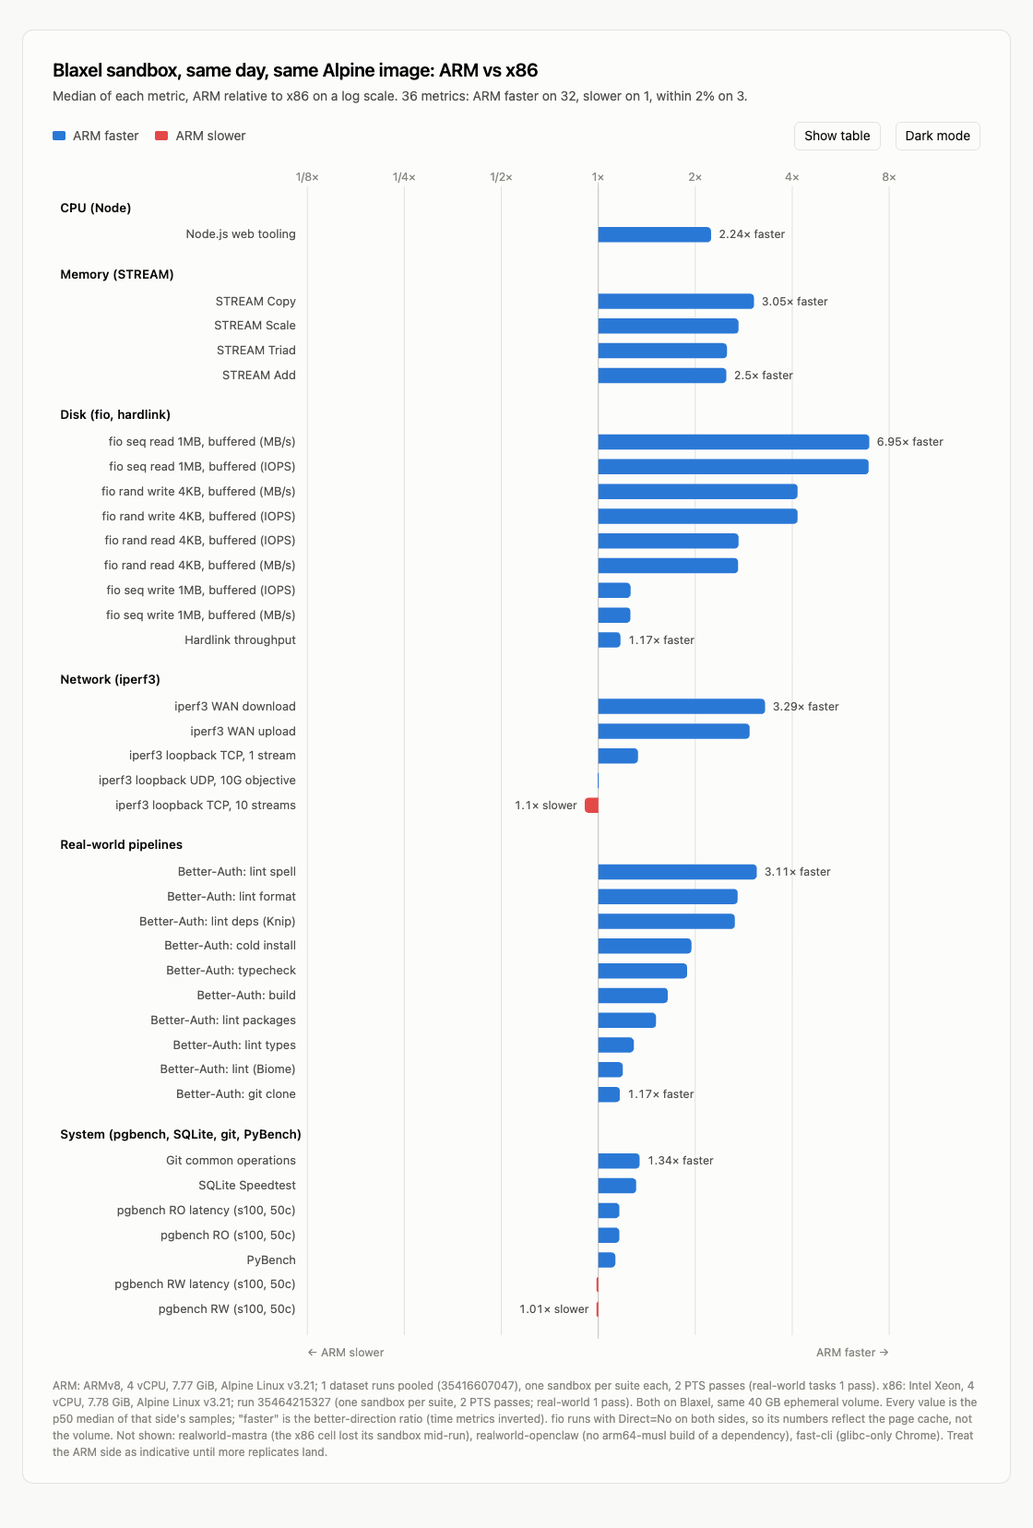
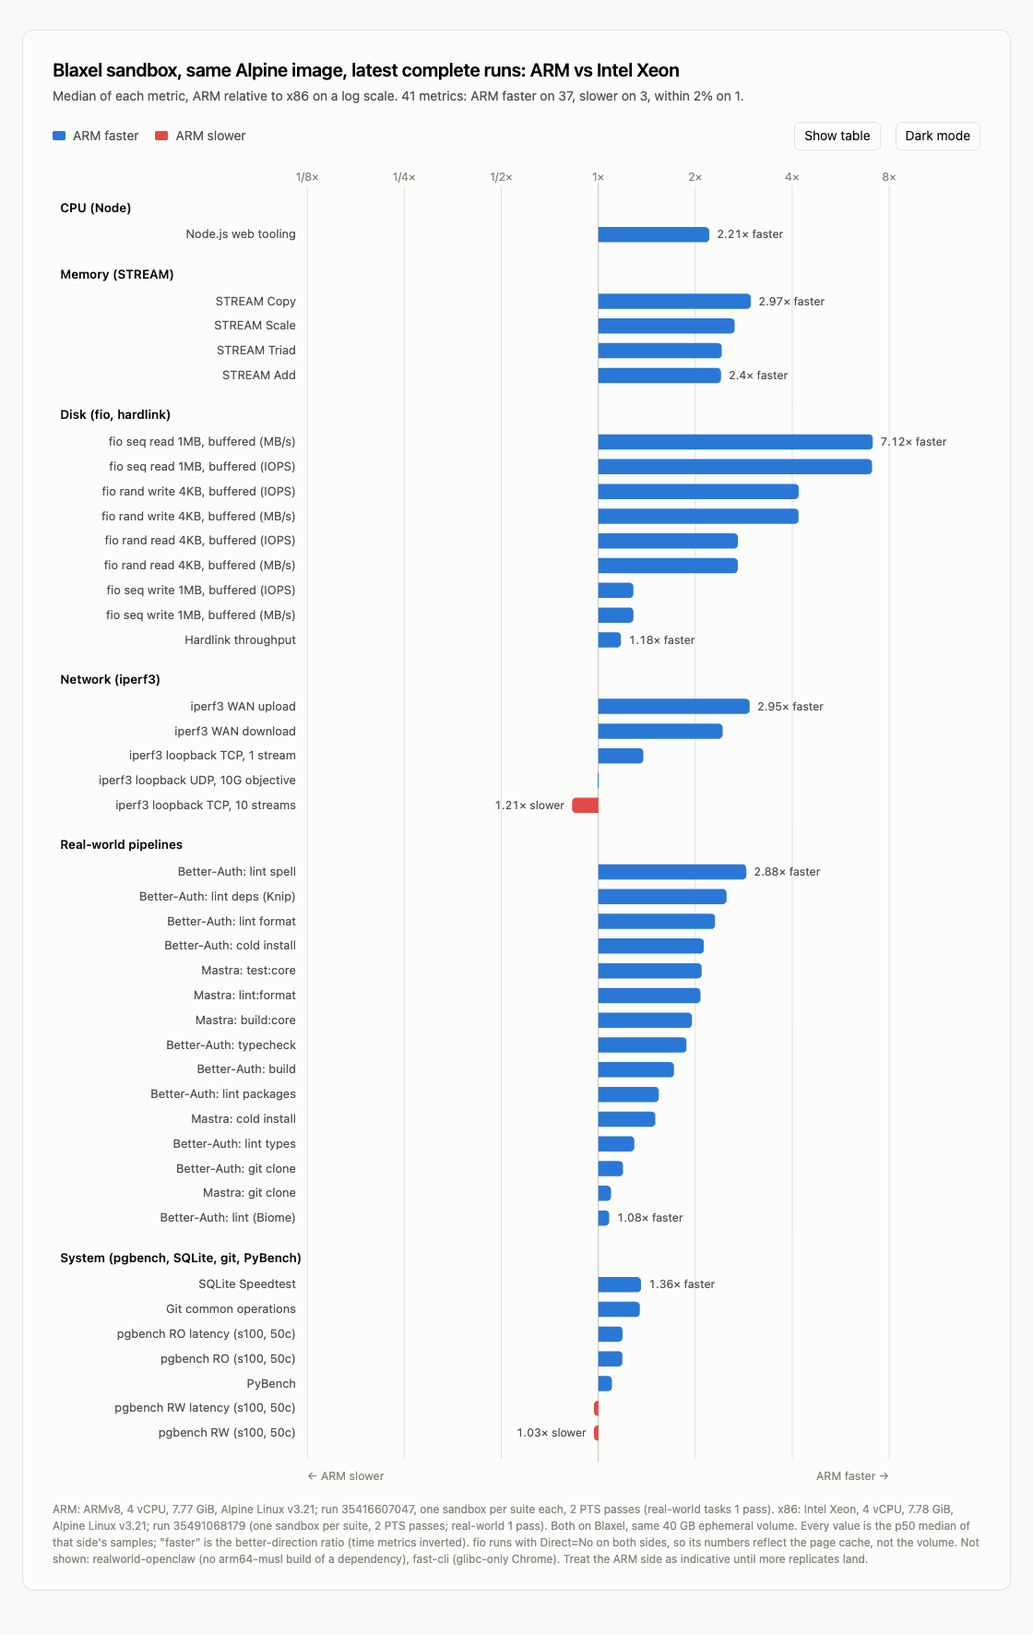
docs(chart,report): Alpine pair now compares the two latest complete runs (35416607047 ARM, 35491068179 Xeon)

diff --git a/docs/arm-vs-x86-alpine.html b/docs/arm-vs-x86-alpine.html
@@ -3,7 +3,7 @@
 <head>
 <meta charset="utf-8">
 <meta name="viewport" content="width=device-width, initial-scale=1">
-<title>Blaxel sandbox, same day, same Alpine image: ARM vs x86</title>
+<title>Blaxel sandbox, same Alpine image, latest complete runs: ARM vs Intel Xeon</title>
 <style>
   .viz-root {
     color-scheme: light;
@@ -69,7 +69,7 @@
 <body>
 <div class="viz-root" data-palette="#2a78d6,#e34948" data-mode="light">
   <div class="card">
-    <h1>Blaxel sandbox, same day, same Alpine image: ARM vs x86</h1>
+    <h1>Blaxel sandbox, same Alpine image, latest complete runs: ARM vs Intel Xeon</h1>
     <p class="sub" id="subtitle"></p>
     <div class="toolbar">
       <div class="legend" aria-label="Legend">
@@ -87,7 +87,7 @@
   </div>
 </div>
 
-<script id="data" type="application/json">{"rows":[{"id":"node_web_tooling_runs_per_s","dimension":"cpu","label":"Node.js web tooling","unit":"runs/s","direction":"HIB","arm":24.25,"x86":10.825,"nArm":2,"nX86":2,"ratio":2.240184757505774,"pct":124.01847575057738},{"id":"fio_type_sequential_read_engine_linux_aio_direct_no_block_size_1mb_job_count_1_disk_target_default_test_directory_mb_per_s","dimension":"disk","label":"fio seq read 1MB, buffered (MB/s)","unit":"MB/s","direction":"HIB","arm":12079.595519999999,"x86":1739.063296,"nArm":2,"nX86":2,"ratio":6.946035574314139,"pct":594.6035574314138},{"id":"fio_type_sequential_read_engine_linux_aio_direct_no_block_size_1mb_job_count_1_disk_target_default_test_directory_iops","dimension":"disk","label":"fio seq read 1MB, buffered (IOPS)","unit":"IOPS","direction":"HIB","arm":11450,"x86":1657,"nArm":2,"nX86":2,"ratio":6.910078455039227,"pct":591.0078455039227},{"id":"fio_type_random_write_engine_linux_aio_direct_no_block_size_4kb_job_count_1_disk_target_default_test_directory_mb_per_s","dimension":"disk","label":"fio rand write 4KB, buffered (MB/s)","unit":"MB/s","direction":"HIB","arm":1242.5625599999998,"x86":298.84416,"nArm":2,"nX86":2,"ratio":4.157894736842105,"pct":315.7894736842105},{"id":"fio_type_random_write_engine_linux_aio_direct_no_block_size_4kb_job_count_1_disk_target_default_test_directory_iops","dimension":"disk","label":"fio rand write 4KB, buffered (IOPS)","unit":"IOPS","direction":"HIB","arm":303500,"x86":73000,"nArm":2,"nX86":2,"ratio":4.157534246575342,"pct":315.75342465753425},{"id":"fio_type_random_read_engine_linux_aio_direct_no_block_size_4kb_job_count_1_disk_target_default_test_directory_iops","dimension":"disk","label":"fio rand read 4KB, buffered (IOPS)","unit":"IOPS","direction":"HIB","arm":57250,"x86":21000,"nArm":2,"nX86":2,"ratio":2.7261904761904763,"pct":172.61904761904762},{"id":"fio_type_random_read_engine_linux_aio_direct_no_block_size_4kb_job_count_1_disk_target_default_test_directory_mb_per_s","dimension":"disk","label":"fio rand read 4KB, buffered (MB/s)","unit":"MB/s","direction":"HIB","arm":234.356736,"x86":86.19294719999999,"nArm":2,"nX86":2,"ratio":2.7189781021897814,"pct":171.89781021897815},{"id":"fio_type_sequential_write_engine_linux_aio_direct_no_block_size_1mb_job_count_1_disk_target_default_test_directory_iops","dimension":"disk","label":"fio seq write 1MB, buffered (IOPS)","unit":"IOPS","direction":"HIB","arm":2065.5,"x86":1639.5,"nArm":2,"nX86":2,"ratio":1.2598353156450137,"pct":25.983531564501373},{"id":"fio_type_sequential_write_engine_linux_aio_direct_no_block_size_1mb_job_count_1_disk_target_default_test_directory_mb_per_s","dimension":"disk","label":"fio seq write 1MB, buffered (MB/s)","unit":"MB/s","direction":"HIB","arm":2167.4065920000003,"x86":1721.237504,"nArm":2,"nX86":2,"ratio":1.2592141334145601,"pct":25.921413341456013},{"id":"hardlink_bogo_ops_per_s","dimension":"disk","label":"Hardlink throughput","unit":"bogo ops/s","direction":"HIB","arm":13.02,"x86":11.11,"nArm":2,"nX86":2,"ratio":1.171917191719172,"pct":17.191719171917196},{"id":"stream_type_copy","dimension":"memory","label":"STREAM Copy","unit":"MB/s","direction":"HIB","arm":167833,"x86":55104.65,"nArm":2,"nX86":2,"ratio":3.0457139279534484,"pct":204.57139279534485},{"id":"stream_type_scale","dimension":"memory","label":"STREAM Scale","unit":"MB/s","direction":"HIB","arm":167797.05,"x86":61540.100000000006,"nArm":2,"nX86":2,"ratio":2.7266294659904675,"pct":172.66294659904676},{"id":"stream_type_triad","dimension":"memory","label":"STREAM Triad","unit":"MB/s","direction":"HIB","arm":159585.7,"x86":63612.6,"nArm":2,"nX86":2,"ratio":2.5087121104938332,"pct":150.87121104938333},{"id":"stream_type_add","dimension":"memory","label":"STREAM Add","unit":"MB/s","direction":"HIB","arm":159481.05,"x86":63825.65,"nArm":2,"nX86":2,"ratio":2.498698407301766,"pct":149.8698407301766},{"id":"iperf_wan_direction_download","dimension":"network","label":"iperf3 WAN download","unit":"Mbits/sec","direction":"HIB","arm":3680.75,"x86":1117.15,"nArm":2,"nX86":2,"ratio":3.2947679362663918,"pct":229.47679362663916},{"id":"iperf_wan_direction_upload","dimension":"network","label":"iperf3 WAN upload","unit":"Mbits/sec","direction":"HIB","arm":6906.6,"x86":2340.525,"nArm":2,"nX86":2,"ratio":2.950876405934566,"pct":195.0876405934566},{"id":"iperf_server_address_localhost_server_port_5201_duration_10_seconds_test_tcp_parallel_1","dimension":"network","label":"iperf3 loopback TCP, 1 stream","unit":"Mbits/sec","direction":"HIB","arm":93537.5,"x86":70432,"nArm":2,"nX86":2,"ratio":1.3280540095411177,"pct":32.805400954111775},{"id":"iperf_server_address_localhost_server_port_5201_duration_10_seconds_test_udp_10000mbit_objective_parallel_1","dimension":"network","label":"iperf3 loopback UDP, 10G objective","unit":"Mbits/sec","direction":"HIB","arm":9999,"x86":9999,"nArm":2,"nX86":2,"ratio":1,"pct":0},{"id":"iperf_server_address_localhost_server_port_5201_duration_10_seconds_test_tcp_parallel_10","dimension":"network","label":"iperf3 loopback TCP, 10 streams","unit":"Mbits/sec","direction":"HIB","arm":66970,"x86":73760.5,"nArm":2,"nX86":2,"ratio":0.9079385307854475,"pct":-9.20614692145525},{"id":"realworld_better_auth_task_lint_spell","dimension":"realworld","label":"Better-Auth: lint spell","unit":"Seconds","direction":"LIB","arm":7.584,"x86":23.556,"nArm":1,"nX86":1,"ratio":3.1060126582278484,"pct":210.60126582278485},{"id":"realworld_better_auth_task_lint_format","dimension":"realworld","label":"Better-Auth: lint format","unit":"Seconds","direction":"LIB","arm":3.298,"x86":8.935,"nArm":1,"nX86":1,"ratio":2.7092177077016375,"pct":170.92177077016376},{"id":"realworld_better_auth_task_lint_deps_knip","dimension":"realworld","label":"Better-Auth: lint deps (Knip)","unit":"Seconds","direction":"LIB","arm":9.879,"x86":26.224,"nArm":1,"nX86":1,"ratio":2.6545196882275537,"pct":165.45196882275536},{"id":"realworld_better_auth_task_cold_install","dimension":"realworld","label":"Better-Auth: cold install","unit":"Seconds","direction":"LIB","arm":14.16,"x86":27.567,"nArm":1,"nX86":1,"ratio":1.946822033898305,"pct":94.6822033898305},{"id":"realworld_better_auth_task_typecheck","dimension":"realworld","label":"Better-Auth: typecheck","unit":"Seconds","direction":"LIB","arm":41.415,"x86":78.159,"nArm":1,"nX86":1,"ratio":1.8872147772546182,"pct":88.72147772546182},{"id":"realworld_better_auth_task_build","dimension":"realworld","label":"Better-Auth: build","unit":"Seconds","direction":"LIB","arm":56.664,"x86":93.136,"nArm":1,"nX86":1,"ratio":1.643653819003247,"pct":64.3653819003247},{"id":"realworld_better_auth_task_lint_packages","dimension":"realworld","label":"Better-Auth: lint packages","unit":"Seconds","direction":"LIB","arm":3.125,"x86":4.722,"nArm":1,"nX86":1,"ratio":1.5110400000000002,"pct":51.10400000000001},{"id":"realworld_better_auth_task_lint_types","dimension":"realworld","label":"Better-Auth: lint types","unit":"Seconds","direction":"LIB","arm":28.628,"x86":36.903,"nArm":1,"nX86":1,"ratio":1.2890526757021097,"pct":28.905267570210967},{"id":"realworld_better_auth_task_lint_biome","dimension":"realworld","label":"Better-Auth: lint (Biome)","unit":"Seconds","direction":"LIB","arm":54.923,"x86":65.498,"nArm":1,"nX86":1,"ratio":1.1925422864737907,"pct":19.25422864737907},{"id":"realworld_better_auth_task_git_clone","dimension":"realworld","label":"Better-Auth: git clone","unit":"Seconds","direction":"LIB","arm":3.184,"x86":3.717,"nArm":1,"nX86":1,"ratio":1.167399497487437,"pct":16.73994974874371},{"id":"git_seconds","dimension":"system","label":"Git common operations","unit":"Seconds","direction":"LIB","arm":61.0005,"x86":81.9965,"nArm":2,"nX86":2,"ratio":1.3441939000499994,"pct":34.41939000499994},{"id":"sqlite_speedtest_seconds","dimension":"system","label":"SQLite Speedtest","unit":"Seconds","direction":"LIB","arm":51.42,"x86":67.4825,"nArm":2,"nX86":2,"ratio":1.3123784519642163,"pct":31.23784519642163},{"id":"pgbench_scaling_factor_100_clients_50_mode_read_only_average_latency","dimension":"system","label":"pgbench RO latency (s100, 50c)","unit":"ms","direction":"LIB","arm":0.3545,"x86":0.4125,"nArm":2,"nX86":2,"ratio":1.16361071932299,"pct":16.36107193229901},{"id":"pgbench_scaling_factor_100_clients_50_mode_read_only","dimension":"system","label":"pgbench RO (s100, 50c)","unit":"TPS","direction":"HIB","arm":141035.312585,"x86":121306.7625195,"nArm":2,"nX86":2,"ratio":1.1626335552589548,"pct":16.263355525895484},{"id":"pybench_milliseconds","dimension":"system","label":"PyBench","unit":"Milliseconds","direction":"LIB","arm":669,"x86":756,"nArm":2,"nX86":2,"ratio":1.1300448430493273,"pct":13.004484304932728},{"id":"pgbench_scaling_factor_100_clients_50_mode_read_write_average_latency","dimension":"system","label":"pgbench RW latency (s100, 50c)","unit":"ms","direction":"LIB","arm":3.384,"x86":3.341,"nArm":2,"nX86":2,"ratio":0.9872931442080379,"pct":-1.2706855791962068},{"id":"pgbench_scaling_factor_100_clients_50_mode_read_write","dimension":"system","label":"pgbench RW (s100, 50c)","unit":"TPS","direction":"HIB","arm":14778.4277575,"x86":14971.5285305,"nArm":2,"nX86":2,"ratio":0.9871021337195721,"pct":-1.2897866280427883}],"armSpec":{"cpuModel":"ARMv8","detectedIsolation":"unknown","diskGb":40.2,"hostMemoryGb":8,"hostVcpus":4,"kernel":"6.1.166","memoryGb":7.77,"os":"Alpine Linux v3.21","vcpus":4,"virtualization":"unknown","asnSource":"ipinfo","city":"Ashburn","country":"US","egressAsn":"AS14618","egressOrg":"AS14618 Amazon.com, Inc.","egressOrgName":"Amazon.com, Inc.","geoSource":"ipinfo","location":"39.0437,-77.4875","region":"Virginia","timezone":"America/New_York"},"x86Spec":{"cpuModel":"Intel Xeon","detectedIsolation":"unknown","diskGb":40.2,"hostMemoryGb":8,"hostVcpus":4,"kernel":"6.1.166","memoryGb":7.78,"os":"Alpine Linux v3.21","vcpus":4,"virtualization":"unknown","asnSource":"ipinfo","city":"Ashburn","country":"US","egressAsn":"AS14618","egressOrg":"AS14618 Amazon.com, Inc.","egressOrgName":"Amazon.com, Inc.","geoSource":"ipinfo","location":"39.0437,-77.4875","region":"Virginia","timezone":"America/New_York"},"armRuns":["35416607047"],"x86Runs":["35464215327"]}</script>
+<script id="data" type="application/json">{"rows":[{"id":"node_web_tooling_runs_per_s","dimension":"cpu","label":"Node.js web tooling","unit":"runs/s","direction":"HIB","arm":24.25,"x86":10.965,"nArm":2,"nX86":2,"ratio":2.2115823073415415,"pct":121.15823073415415},{"id":"fio_type_sequential_read_engine_linux_aio_direct_no_block_size_1mb_job_count_1_disk_target_default_test_directory_mb_per_s","dimension":"disk","label":"fio seq read 1MB, buffered (MB/s)","unit":"MB/s","direction":"HIB","arm":12079.595519999999,"x86":1697.644544,"nArm":2,"nX86":2,"ratio":7.115503397158739,"pct":611.5503397158739},{"id":"fio_type_sequential_read_engine_linux_aio_direct_no_block_size_1mb_job_count_1_disk_target_default_test_directory_iops","dimension":"disk","label":"fio seq read 1MB, buffered (IOPS)","unit":"IOPS","direction":"HIB","arm":11450,"x86":1618,"nArm":2,"nX86":2,"ratio":7.07663782447466,"pct":607.663782447466},{"id":"fio_type_random_write_engine_linux_aio_direct_no_block_size_4kb_job_count_1_disk_target_default_test_directory_iops","dimension":"disk","label":"fio rand write 4KB, buffered (IOPS)","unit":"IOPS","direction":"HIB","arm":303500,"x86":72450,"nArm":2,"nX86":2,"ratio":4.189095928226363,"pct":318.90959282263634},{"id":"fio_type_random_write_engine_linux_aio_direct_no_block_size_4kb_job_count_1_disk_target_default_test_directory_mb_per_s","dimension":"disk","label":"fio rand write 4KB, buffered (MB/s)","unit":"MB/s","direction":"HIB","arm":1242.5625599999998,"x86":296.747008,"nArm":2,"nX86":2,"ratio":4.1872791519434625,"pct":318.7279151943462},{"id":"fio_type_random_read_engine_linux_aio_direct_no_block_size_4kb_job_count_1_disk_target_default_test_directory_iops","dimension":"disk","label":"fio rand read 4KB, buffered (IOPS)","unit":"IOPS","direction":"HIB","arm":57250,"x86":21100,"nArm":2,"nX86":2,"ratio":2.713270142180095,"pct":171.32701421800948},{"id":"fio_type_random_read_engine_linux_aio_direct_no_block_size_4kb_job_count_1_disk_target_default_test_directory_mb_per_s","dimension":"disk","label":"fio rand read 4KB, buffered (MB/s)","unit":"MB/s","direction":"HIB","arm":234.356736,"x86":86.4550912,"nArm":2,"nX86":2,"ratio":2.7107337780473015,"pct":171.07337780473014},{"id":"fio_type_sequential_write_engine_linux_aio_direct_no_block_size_1mb_job_count_1_disk_target_default_test_directory_iops","dimension":"disk","label":"fio seq write 1MB, buffered (IOPS)","unit":"IOPS","direction":"HIB","arm":2065.5,"x86":1606.5,"nArm":2,"nX86":2,"ratio":1.2857142857142858,"pct":28.57142857142858},{"id":"fio_type_sequential_write_engine_linux_aio_direct_no_block_size_1mb_job_count_1_disk_target_default_test_directory_mb_per_s","dimension":"disk","label":"fio seq write 1MB, buffered (MB/s)","unit":"MB/s","direction":"HIB","arm":2167.4065920000003,"x86":1686.110208,"nArm":2,"nX86":2,"ratio":1.28544776119403,"pct":28.544776119403004},{"id":"hardlink_bogo_ops_per_s","dimension":"disk","label":"Hardlink throughput","unit":"bogo ops/s","direction":"HIB","arm":13.02,"x86":11.07,"nArm":2,"nX86":2,"ratio":1.1761517615176151,"pct":17.615176151761514},{"id":"stream_type_copy","dimension":"memory","label":"STREAM Copy","unit":"MB/s","direction":"HIB","arm":167833,"x86":56430.8,"nArm":2,"nX86":2,"ratio":2.974138236565847,"pct":197.4138236565847},{"id":"stream_type_scale","dimension":"memory","label":"STREAM Scale","unit":"MB/s","direction":"HIB","arm":167797.05,"x86":63324.45,"nArm":2,"nX86":2,"ratio":2.6497987744070417,"pct":164.97987744070417},{"id":"stream_type_triad","dimension":"memory","label":"STREAM Triad","unit":"MB/s","direction":"HIB","arm":159585.7,"x86":65984.75,"nArm":2,"nX86":2,"ratio":2.4185239771310796,"pct":141.85239771310796},{"id":"stream_type_add","dimension":"memory","label":"STREAM Add","unit":"MB/s","direction":"HIB","arm":159481.05,"x86":66319.75,"nArm":2,"nX86":2,"ratio":2.4047293604092292,"pct":140.47293604092292},{"id":"iperf_wan_direction_upload","dimension":"network","label":"iperf3 WAN upload","unit":"Mbits/sec","direction":"HIB","arm":6906.6,"x86":2340.355,"nArm":2,"nX86":2,"ratio":2.9510907533258846,"pct":195.10907533258845},{"id":"iperf_wan_direction_download","dimension":"network","label":"iperf3 WAN download","unit":"Mbits/sec","direction":"HIB","arm":3680.75,"x86":1513.6399999999999,"nArm":2,"nX86":2,"ratio":2.431720884754631,"pct":143.1720884754631},{"id":"iperf_server_address_localhost_server_port_5201_duration_10_seconds_test_tcp_parallel_1","dimension":"network","label":"iperf3 loopback TCP, 1 stream","unit":"Mbits/sec","direction":"HIB","arm":93537.5,"x86":67742.5,"nArm":2,"nX86":2,"ratio":1.380780160165332,"pct":38.0780160165332},{"id":"iperf_server_address_localhost_server_port_5201_duration_10_seconds_test_udp_10000mbit_objective_parallel_1","dimension":"network","label":"iperf3 loopback UDP, 10G objective","unit":"Mbits/sec","direction":"HIB","arm":9999,"x86":9999,"nArm":2,"nX86":2,"ratio":1,"pct":0},{"id":"iperf_server_address_localhost_server_port_5201_duration_10_seconds_test_tcp_parallel_10","dimension":"network","label":"iperf3 loopback TCP, 10 streams","unit":"Mbits/sec","direction":"HIB","arm":66970,"x86":80744.5,"nArm":2,"nX86":2,"ratio":0.8294063372737462,"pct":-17.059366272625375},{"id":"realworld_better_auth_task_lint_spell","dimension":"realworld","label":"Better-Auth: lint spell","unit":"Seconds","direction":"LIB","arm":7.584,"x86":21.848,"nArm":1,"nX86":1,"ratio":2.880801687763713,"pct":188.0801687763713},{"id":"realworld_better_auth_task_lint_deps_knip","dimension":"realworld","label":"Better-Auth: lint deps (Knip)","unit":"Seconds","direction":"LIB","arm":9.879,"x86":24.714,"nArm":1,"nX86":1,"ratio":2.501670209535378,"pct":150.16702095353781},{"id":"realworld_better_auth_task_lint_format","dimension":"realworld","label":"Better-Auth: lint format","unit":"Seconds","direction":"LIB","arm":3.298,"x86":7.604,"nArm":1,"nX86":1,"ratio":2.30563978168587,"pct":130.563978168587},{"id":"realworld_better_auth_task_cold_install","dimension":"realworld","label":"Better-Auth: cold install","unit":"Seconds","direction":"LIB","arm":14.16,"x86":30.118,"nArm":1,"nX86":1,"ratio":2.126977401129943,"pct":112.69774011299431},{"id":"realworld_mastra_task_test_core","dimension":"realworld","label":"Mastra: test:core","unit":"Seconds","direction":"LIB","arm":1045.236,"x86":2190.29,"nArm":1,"nX86":1,"ratio":2.0954980502011025,"pct":109.54980502011024},{"id":"realworld_mastra_task_lint_format","dimension":"realworld","label":"Mastra: lint:format","unit":"Seconds","direction":"LIB","arm":87.654,"x86":182.024,"nArm":1,"nX86":1,"ratio":2.076619435507792,"pct":107.6619435507792},{"id":"realworld_mastra_task_build_core","dimension":"realworld","label":"Mastra: build:core","unit":"Seconds","direction":"LIB","arm":72.767,"x86":142.111,"nArm":1,"nX86":1,"ratio":1.9529594459026756,"pct":95.29594459026755},{"id":"realworld_better_auth_task_typecheck","dimension":"realworld","label":"Better-Auth: typecheck","unit":"Seconds","direction":"LIB","arm":41.415,"x86":77.845,"nArm":1,"nX86":1,"ratio":1.8796329832186407,"pct":87.96329832186407},{"id":"realworld_better_auth_task_build","dimension":"realworld","label":"Better-Auth: build","unit":"Seconds","direction":"LIB","arm":56.664,"x86":97.375,"nArm":1,"nX86":1,"ratio":1.7184632217986728,"pct":71.84632217986729},{"id":"realworld_better_auth_task_lint_packages","dimension":"realworld","label":"Better-Auth: lint packages","unit":"Seconds","direction":"LIB","arm":3.125,"x86":4.817,"nArm":1,"nX86":1,"ratio":1.5414400000000001,"pct":54.14400000000001},{"id":"realworld_mastra_task_cold_install","dimension":"realworld","label":"Mastra: cold install","unit":"Seconds","direction":"LIB","arm":42.496,"x86":63.942,"nArm":1,"nX86":1,"ratio":1.5046592620481927,"pct":50.46592620481927},{"id":"realworld_better_auth_task_lint_types","dimension":"realworld","label":"Better-Auth: lint types","unit":"Seconds","direction":"LIB","arm":28.628,"x86":37.034,"nArm":1,"nX86":1,"ratio":1.2936286153416234,"pct":29.36286153416234},{"id":"realworld_better_auth_task_git_clone","dimension":"realworld","label":"Better-Auth: git clone","unit":"Seconds","direction":"LIB","arm":3.184,"x86":3.802,"nArm":1,"nX86":1,"ratio":1.1940954773869346,"pct":19.409547738693455},{"id":"realworld_mastra_task_git_clone","dimension":"realworld","label":"Mastra: git clone","unit":"Seconds","direction":"LIB","arm":6.518,"x86":7.139,"nArm":1,"nX86":1,"ratio":1.0952746241178277,"pct":9.527462411782771},{"id":"realworld_better_auth_task_lint_biome","dimension":"realworld","label":"Better-Auth: lint (Biome)","unit":"Seconds","direction":"LIB","arm":54.923,"x86":59.356,"nArm":1,"nX86":1,"ratio":1.0807129981974766,"pct":8.071299819747658},{"id":"sqlite_speedtest_seconds","dimension":"system","label":"SQLite Speedtest","unit":"Seconds","direction":"LIB","arm":51.42,"x86":69.7895,"nArm":2,"nX86":2,"ratio":1.357244262932711,"pct":35.72442629327111},{"id":"git_seconds","dimension":"system","label":"Git common operations","unit":"Seconds","direction":"LIB","arm":61.0005,"x86":82.09,"nArm":2,"nX86":2,"ratio":1.3457266743715215,"pct":34.57266743715215},{"id":"pgbench_scaling_factor_100_clients_50_mode_read_only_average_latency","dimension":"system","label":"pgbench RO latency (s100, 50c)","unit":"ms","direction":"LIB","arm":0.3545,"x86":0.4215,"nArm":2,"nX86":2,"ratio":1.1889985895627644,"pct":18.89985895627644},{"id":"pgbench_scaling_factor_100_clients_50_mode_read_only","dimension":"system","label":"pgbench RO (s100, 50c)","unit":"TPS","direction":"HIB","arm":141035.312585,"x86":118677.28353449999,"nArm":2,"nX86":2,"ratio":1.1883935019796812,"pct":18.83935019796812},{"id":"pybench_milliseconds","dimension":"system","label":"PyBench","unit":"Milliseconds","direction":"LIB","arm":669,"x86":737.5,"nArm":2,"nX86":2,"ratio":1.102391629297459,"pct":10.239162929745893},{"id":"pgbench_scaling_factor_100_clients_50_mode_read_write_average_latency","dimension":"system","label":"pgbench RW latency (s100, 50c)","unit":"ms","direction":"LIB","arm":3.384,"x86":3.282,"nArm":2,"nX86":2,"ratio":0.9698581560283688,"pct":-3.014184397163122},{"id":"pgbench_scaling_factor_100_clients_50_mode_read_write","dimension":"system","label":"pgbench RW (s100, 50c)","unit":"TPS","direction":"HIB","arm":14778.4277575,"x86":15240.9351795,"nArm":2,"nX86":2,"ratio":0.9696536061237173,"pct":-3.0346393876282685}],"armSpec":{"cpuModel":"ARMv8","detectedIsolation":"unknown","diskGb":40.2,"hostMemoryGb":8,"hostVcpus":4,"kernel":"6.1.166","memoryGb":7.77,"os":"Alpine Linux v3.21","vcpus":4,"virtualization":"unknown","asnSource":"ipinfo","city":"Ashburn","country":"US","egressAsn":"AS14618","egressOrg":"AS14618 Amazon.com, Inc.","egressOrgName":"Amazon.com, Inc.","geoSource":"ipinfo","location":"39.0437,-77.4875","region":"Virginia","timezone":"America/New_York"},"x86Spec":{"cpuModel":"Intel Xeon","detectedIsolation":"unknown","diskGb":40.2,"hostMemoryGb":8,"hostVcpus":4,"kernel":"6.1.166","memoryGb":7.78,"os":"Alpine Linux v3.21","vcpus":4,"virtualization":"unknown","asnSource":"ipinfo","city":"Ashburn","country":"US","egressAsn":"AS14618","egressOrg":"AS14618 Amazon.com, Inc.","egressOrgName":"Amazon.com, Inc.","geoSource":"ipinfo","location":"39.0437,-77.4875","region":"Virginia","timezone":"America/New_York"},"armRuns":["35416607047"],"x86Runs":["35491068179"]}</script>
 <script>
 (() => {
   const DATA = JSON.parse(document.getElementById("data").textContent);
@@ -173,7 +173,7 @@
     `x86: ${esc(b.cpuModel)}, ${b.vcpus} vCPU, ${b.memoryGb} GiB, ${esc(b.os)}; run ${(DATA.x86Runs ?? []).join(", ")} (one sandbox per suite, 2 PTS passes; real-world 1 pass). ` +
     `Both on Blaxel, same 40 GB ephemeral volume. Every value is the p50 median of that side's samples; "faster" is the better-direction ratio (time metrics inverted). ` +
     `fio runs with Direct=No on both sides, so its numbers reflect the page cache, not the volume. ` +
-    `Not shown: realworld-mastra (the x86 cell lost its sandbox mid-run), realworld-openclaw (no arm64-musl build of a dependency), fast-cli (glibc-only Chrome). ` +
+    `Not shown: realworld-openclaw (no arm64-musl build of a dependency), fast-cli (glibc-only Chrome). ` +
     `Treat the ARM side as indicative until more replicates land.`;
 
   // ---- tooltip -------------------------------------------------------------------

diff --git a/docs/report.html b/docs/report.html
@@ -118,8 +118,8 @@
   </div>
 
   <div class="card">
-    <h2>Same day, same Alpine image: ARM vs Intel Xeon</h2>
-    <p class="sub">Runs 35416607047 (ARMv8) and 35464215327 (Xeon), both Alpine 3.21, so the OS is held constant. The Xeon pool is the slowest host type in the fleet on CPU- and disk-bound work, which is why ARM leads almost everywhere here.</p>
+    <h2>Latest two complete runs, same Alpine image: ARM vs Intel Xeon</h2>
+    <p class="sub">Runs 35416607047 (ARMv8, 19 Sep) and 35491068179 (Xeon, 20 Sep), both Alpine 3.21 with all 41 metrics and no gaps, so the OS is held constant and nothing is missing. The Xeon pool is the slowest host type in the fleet on CPU- and disk-bound work, which is why ARM leads almost everywhere here.</p>
     <iframe src="arm-vs-x86-alpine.html" title="Same-day Alpine ARM vs Xeon diverging chart" height="1660"></iframe>
   </div>
 
